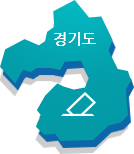
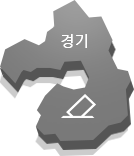
구본용 : css 수정 및 이미지 변경, 키클래스 240315

diff --git a/assets/css/ref_survey_cp.css b/assets/css/ref_survey_cp.css
@@ -54,8 +54,10 @@
 .comparative .toolTip3 {
     margin-bottom: 20px;
 }
+/* [D] 240315 : 물음표 위치 변경 및 글자 간격 조절 */
 .comparative .toolTip3 p {
-    background: url('/images/ref_survey_2024/ref_common/icon_question_16x16.png') no-repeat left 2px;
+    background: url('/images/ref_survey_2024/ref_common/icon_question_16x16.png') no-repeat left 4px;
+    letter-spacing: -0.07rem;
 }
 .comparative .btn-map {
     position: absolute;
@@ -316,10 +318,23 @@
     line-height: 13px;
     color: #474f73;
 }
+/* [D] 240315 : 오버효과 변경 */
 .comparative .comparativeMap .sigungu-area .sigungu li button:hover,
-.comparative .comparativeMap .sigungu-area .sigungu li button:focus,
+.comparative .comparativeMap .sigungu-area .sigungu li button:focus {
+    padding: 10px;
+    margin: -10px;
+    border-radius: 20px;
+    background-color: rgba(51, 51, 51, 0.5);
+    font-size: 15px;
+    color: #ffffff;
+}
 .comparative .comparativeMap .sigungu-area .sigungu li button[title='선택됨'] {
-    color: #059fa9;
+    padding: 10px;
+    margin: -10px;
+    border-radius: 20px;
+    background-color: rgba(51, 51, 51, 0.5);
+    font-size: 15px;
+    color: #ffffff;
 }
 /* 공약이슈트리 - 시군구 지도 */
 .comparative .comparativeMap .sigungu-area[data-inmap='seoul'] {
@@ -1406,6 +1421,7 @@
     font-size: 14px;
     position: relative;
 }
+/* [D] 240315 : 숫자 위치 조정 */
 .comparative .map-keyword .keyword-list .keyword-box ol li span::before {
     content: counter(circle);
     position: absolute;
@@ -1413,6 +1429,7 @@
     left: -22px;
     transform: translateY(-50%);
     counter-increment: circle 1;
+    line-height: 16px;
     font-size: 9px;
     color: #ffffff;
     width: 15px;
@@ -1541,8 +1558,9 @@
     .comparative .map-keyword .keyword-list .keyword-box ol {
         margin: 20px 0 0 0px;
     }
+    /* [D] 240315 : 숫자 배경 위치 조정 */
     .comparative .map-keyword .keyword-list .keyword-box ol li span::after {
-        left: -20px;
+        left: -21px;
         width: 14px;
         height: 14px;
     }
@@ -1711,11 +1729,7 @@
     .comparative .map-keyword .keyword-list .keyword-box ol li span {
         font-size: 12px;
     }
-    .comparative .map-keyword .keyword-list .keyword-box ol li span::after {
-        left: -20px;
-        width: 14px;
-        height: 14px;
-    }
+    /* [D] 240315 : 숫자 배경 위치 조정 - 불필요 삭제 */
     .comparative .map-keyword .btn-map {
         display: none;
     }
